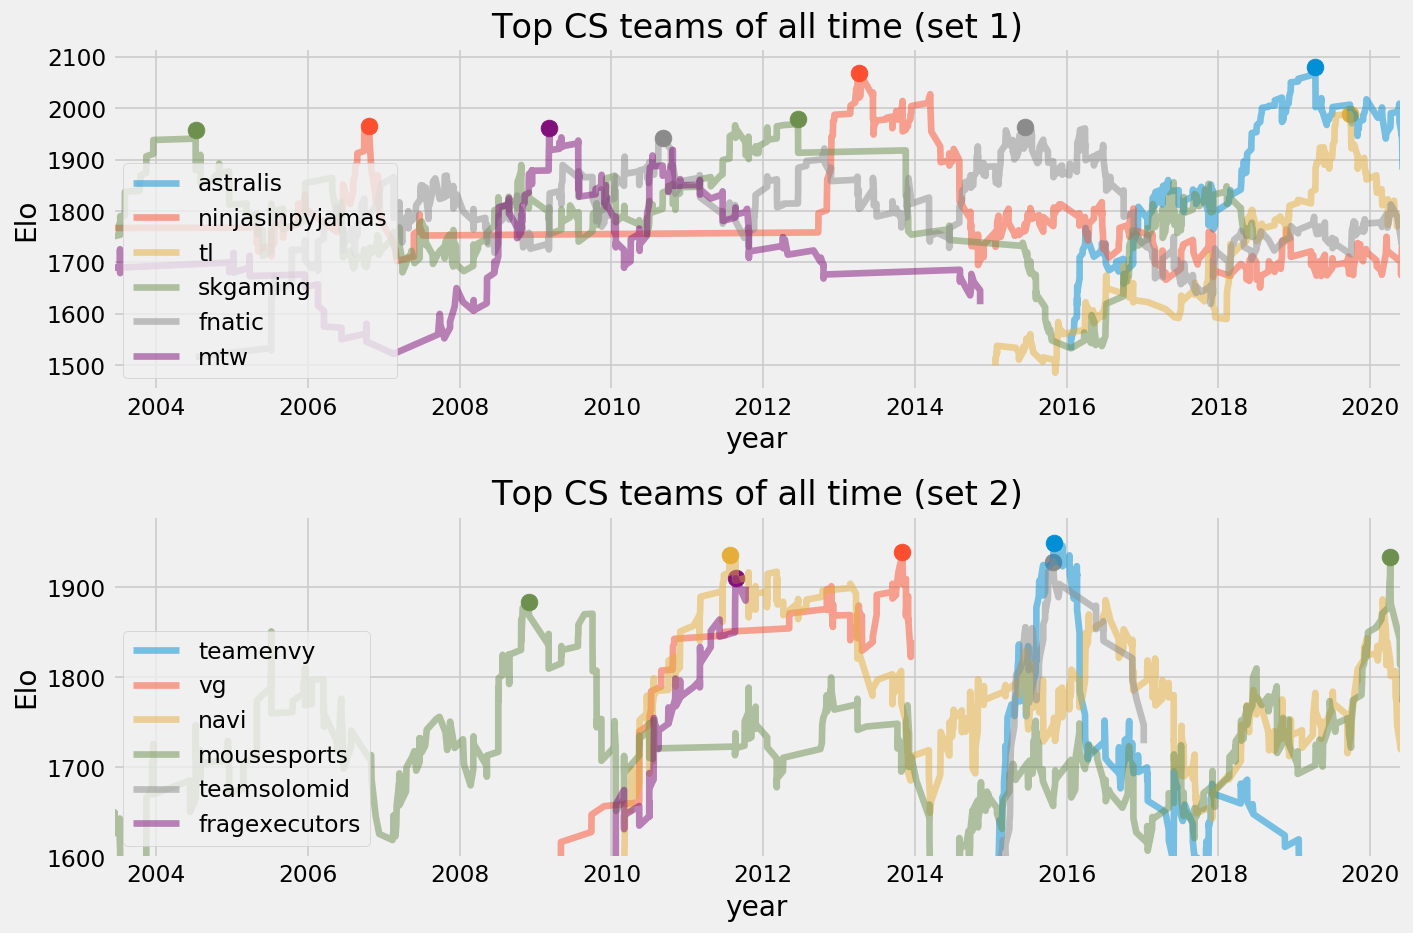
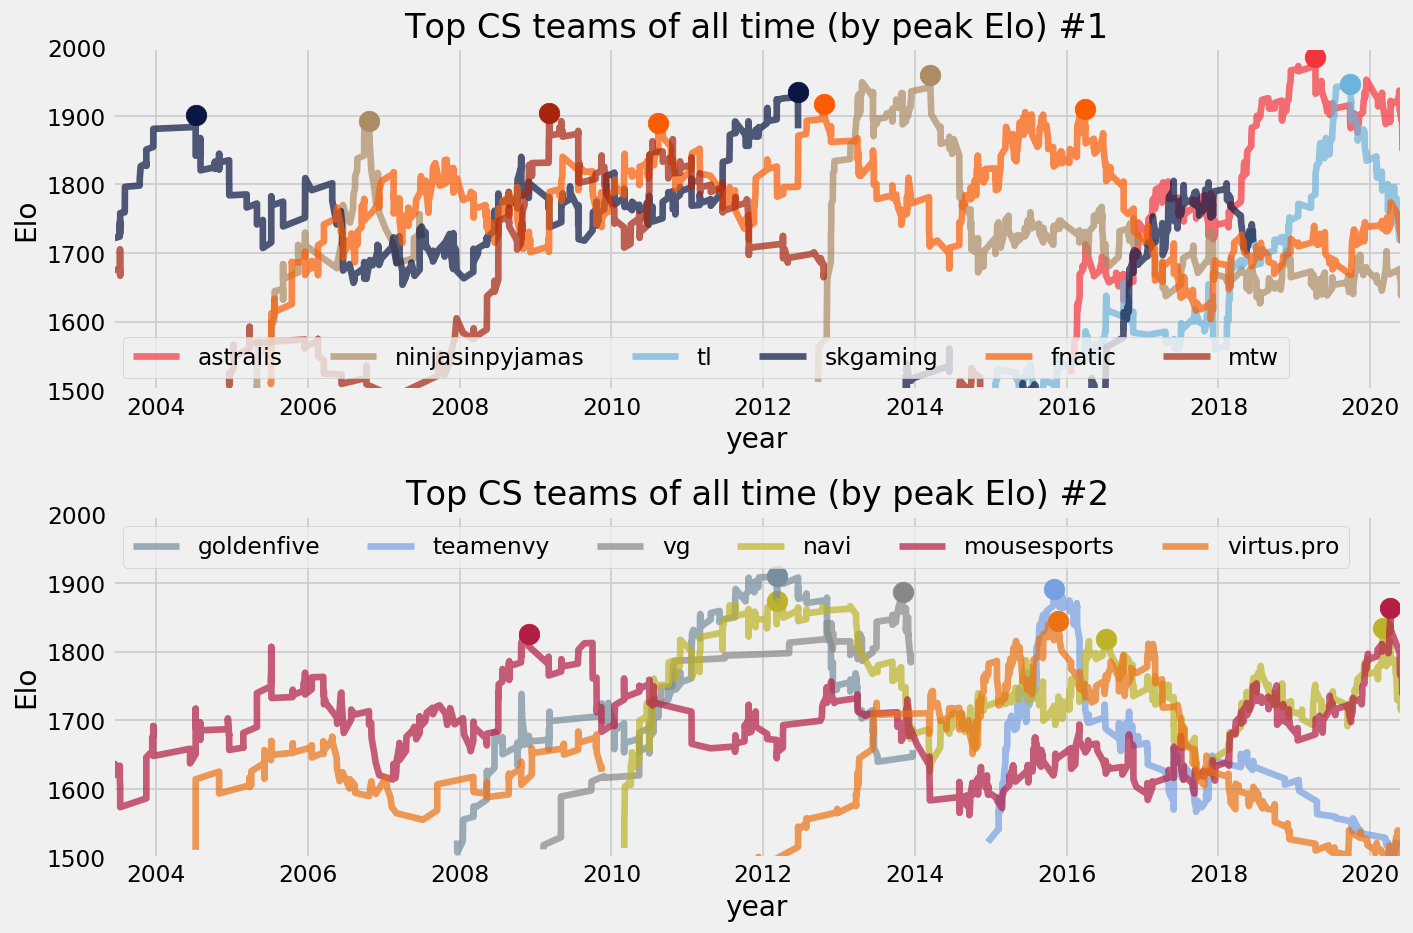
updated article on csgo with resets

diff --git a/_posts/2020-06-08-cso_elo.md b/_posts/2020-06-08-cso_elo.md
@@ -1,111 +1,142 @@
 ---
 layout: post
-title: The Best Counter-Strike Teams of All-Time
+title: The Greatest Counter-Strike Teams of All-Time
 ---
-In an era of shelter-in-place, we've seen the temporary shutdown of many sports leagues. The biggest sporting news seemed to revolve around [discussions of greatness](https://en.wikipedia.org/wiki/The_Last_Dance_(TV_series)). The shelter-in-place led me to check in on eSports, specifically Counter-Strike, and ask **who was the great Counter-Strike team of all-time?**. 
+In an era of shelter-in-place, we've seen the temporary shutdown of many sports leagues. The biggest sporting news of the day seems to revolve around [discussions of greatness](https://en.wikipedia.org/wiki/The_Last_Dance_(TV_series)). These events led me to e-Sports, specifically Counter-Strike, and interest in answering **who were the greatest Counter-Strike teams of all-time?**
 
 
-Counter-Strike seems [more popular than ever](https://steamcharts.com/app/730), with over a million concurrent players and [large prize pools](https://esportsobserver.com/biggest-esports-2019-prize-pool). The scene has its own [news](https://hltv.org) and betting odds are available from [major betting providers](https://www.pinnacle.com/en/esports/matchups/highlights). It has all the things a traditional sports fan might want, even though the traditional sports and eSports communities seem completely disperate. 
+Counter-Strike seems [more popular than ever](https://steamcharts.com/app/730), with over a million concurrent players and [large prize pools](https://esportsobserver.com/biggest-esports-2019-prize-pool). The scene has its own [news](https://hltv.org) and betting odds are available from [major betting providers](https://www.pinnacle.com/en/esports/matchups/highlights). It has all the things a traditional sports fan might want, even though the traditional sports and eSports communities seem completely disparate. 
 
 So I decided to take a leaf from Bill _"86' Celtics"_ Simmons' book and ask... Who are the ['11 Barcelona](https://en.wikipedia.org/wiki/2010%E2%80%9311_FC_Barcelona_season), the ['85 Oilers](https://en.wikipedia.org/wiki/1984%E2%80%9385_Edmonton_Oilers_season), the ['39 Yankees](https://en.wikipedia.org/wiki/1939_New_York_Yankees_season), the ['07 Patriots](https://en.wikipedia.org/wiki/2007_New_England_Patriots_season), the ['17 Warriors](https://en.wikipedia.org/wiki/2016%E2%80%9317_Golden_State_Warriors_season), and the ['02 UConn Huskies](https://en.wikipedia.org/wiki/2001%E2%80%9302_Connecticut_Huskies_women%27s_basketball_team) of Counter-Strike. If you don't agree with those as the GOATs, well, that's exactly why this is fun. 
 
-Such breakdowns exist for many sports, but I couldn't find a single list for Counter-Strike. There are annual lists of [player of the year](https://www.hltv.org/news/28749/top-20-players-of-2019-introduction), and regular updates for [current world rankings](https://www.hltv.org/ranking/teams/) but what about the best teams of all time? I guess I have to make my own. 
+Such breakdowns exist for many sports, but I couldn't find a single list for Counter-Strike. There are annual lists of [player of the year](https://www.hltv.org/news/28749/top-20-players-of-2019-introduction), and regular updates for [current world rankings](https://www.hltv.org/ranking/teams/) but what about the all time greats? [Top 50 Players in CS History](https://youtu.be/yTu1ODceGn4) (2014) has 9M+ YouTube views. But a list of the greatest teams? I guess I have to make my own. 
 
 We'll follow an approach that FiveThirtyEight took for [baseball](https://projects.fivethirtyeight.com/complete-history-of-mlb/), [basketball](https://projects.fivethirtyeight.com/complete-history-of-the-nba/), and [football](
 https://projects.fivethirtyeight.com/complete-history-of-the-nfl/). This consists of building an imperfect quantitative rating, and skip having to actually watch thousands of hours of gameplay to make a more refined decision. 
-
+<p align="center">
+  <img src="/images/csgo.png">
+</p>
+<p align="center">
+  <img src="/images/cs16.png">
+</p>
 
 ## How the ratings work
 We'll be building a basic [Elo rating system](https://en.wikipedia.org/wiki/Elo_rating_system). I've written about the [technical details before](https://nicidob.github.io/nba_elo/), so refer to those for more information. In layman's terms: everyone's rating is represented by a single number. When a team beats another, the winner takes points from the loser; the more unlikely the victory, the more points get exchanged. In absurdly technical jargon, Elo is an [online](https://en.wikipedia.org/wiki/Online_algorithm) approximation to [logistic regression](https://en.wikipedia.org/wiki/Logistic_regression) using [conservative](https://en.wikipedia.org/wiki/Conservation_law) [proportional control](https://en.wikipedia.org/wiki/Proportional_control); the conservation implies that the regression version of this task is solving for the [Rayleigh quotient](https://en.wikipedia.org/wiki/Rayleigh_quotient). There, glad I got that out of the way. 
 
-So how to do we get all the matches? We used an export of [Liquipedia](https://liquipedia.net/counterstrike/Main_Page), which has Counter-Strike games going back to 2000. Specifically, we're using all the A-Tier and S-Tier Tournaments. The dataset is incomplete & not uniformly sampled (more recent tournaments are better documented), but I was able to parse about 16,000 matches, which should be good enough to understand the landscape. 
+So how to do we get all the matches? We used an export of [Liquipedia](https://liquipedia.net/counterstrike/Main_Page), which has Counter-Strike games going back to 2000. Specifically, we're using all the A-Tier and S-Tier Tournaments. The dataset is incomplete & not uniformly sampled (more recent tournaments are better documented), but I was able to parse about 16,000 matches, which should be good enough to understand the landscape. All editions of Counter-Strike are combined and treated equally. 
 
-I setup a fairly general Elo algorithm with a half-dozen free parameters. Then I [optimized](https://en.wikipedia.org/wiki/Derivative-free_optimization) those parameters. Specifically, I was looking to maximize the [log-likelihood](https://en.wikipedia.org/wiki/Scoring_rule#Logarithmic_scoring_rule) of my matches. Remember how I said Elo produced a probability? Well I tuned the parameters so that it produced the most accurate predictions. In what cases? Well the scoring function was \\( \sum_i T_i \log(p_i)  (r_A + r_B) \\) where \\(p_i\\) is the predicted probability of the true winner, \\(T_i\\) was a multiplier that assigned 3x multiplier for LAN matches, and a 3x multiplier for S-Tier instead of A-Tier (9x if it was both S-Tier & LAN). \\(r_A\\) and \\(r_B\\) are the ratings of the teams, to focus on correctly predicting matchups between top teams. 
+I setup a fairly general Elo algorithm with a half-dozen free parameters. Then I [optimized](https://en.wikipedia.org/wiki/Derivative-free_optimization) those parameters. Specifically, I  maximized the [log-likelihood](https://en.wikipedia.org/wiki/Scoring_rule#Logarithmic_scoring_rule) of future match predictions. In what cases? The scoring function was \\( \sum_i T_i \log(p_i)  (r_A + r_B) \\) where \\(p_i\\) is the predicted probability of the true winner, \\(T_i\\) was a multiplier that assigned 3x multiplier for LAN matches, and a 3x multiplier for S-Tier instead of A-Tier (9x if it was both S-Tier & LAN). \\(r_A\\) and \\(r_B\\) are the ratings of the teams, to focus on correctly predicting matchups between top teams. 
 
-The resulting Elo coefficients were \\(K_{\text{Off},S} = 13\\) \\(K_{\text{On},S} = 28\\) \\(K_{\text{On},A} = 9\\), \\(K_{\text{Off},A} = 5\\). These coefficients are multiplied by the squared probability of the winner losing (so upsets cause more points swapped). Compared to normal Elo (which doesn't square the probabilities), this results in larger swaps for bigger upsets. That's it! If a team had a 50% chance of winning a match on S-Tier LAN and did, they'd take 3 points from the loser. In comparison, USCF Chess would swap 5 points. 
+Some examples of the final settings: if teams had a 50% chance of winning an S-Tier LAN and won 2-1, they would swap 8 points, 80%/20% winners would see 2 points (if 80% winner won) or 20 points (if 20% winner won). If the the win was 2-1, it'd be 6, 1 and 17 points in the previous 3 examples. Online A-Tier events ignore margin of victory, and all A-Tier events tend to be worth less points. The formula is \\( p_{l}^2  ( (w)^2 A_{\text{Tier},\text{LAN}} + B_{\text{Tier},\text{LAN}})\\) with \\( p_{l}\\) being the match loser's predicted winning probability, \\( w\\) being the % of maps won, and \\( A\\) \\( B\\) being constants with different values for each the four combinations of On/Offline and S/A-Tier. All of these values (including squaring the probability) came from optimizing the objective function above. 
 
-## The Best Counter-Strike Teams Ever (by Elo peak)
-Without further ado, here's the top 23 teams, covering the top 50 seasons.
+## The highest Elo peaks by Counter-Strike Teams
+Without further ado, here's the top 20 teams by peak Elo
 
-| Team           | Year | Elo  | Members                                   |
-|----------------|------|------|-------------------------------------------|
-| Astralis       | 2019 | 2080 | device dupreeh Xyp9x gla1ve Magisk        |
-| NiP            | 2013 | 2070 | Xizt GeT_RiGhT Fifflaren friberg f0rest   |
-| Team Liquid    | 2019 | 1990 | nitr0 EliGE Twistzz NAF Stewie2K          |
-| SK Gaming      | 2012 | 1980 | GeT_RiGhT f0rest Delpan face RobbaN       |
-| NiP            | 2006 | 1965 | SpawN RobbaN walle ins zet                |
-| fnatic         | 2015 | 1963 | flusha JW pronax olofmeister KRIMZ        |
-| mTw            | 2009 | 1961 | ave mJe zonic Sunde whimp                 |
-| SK Gaming      | 2004 | 1958 | HeatoN Potti fisker SpawN ahl             |
-| Team Envy      | 2015 | 1949 | Happy NBK kioShiMa kennyS apEX            |
-| fnatic         | 2010 | 1942 | Gux cArn dsn f0rest Get_RiGhT             |
-| VeryGames      | 2013 | 1940 | SmithZz NBK  ScreaM shox  Ex6TenZ         |
-| Natus Vincere  | 2011 | 1935 | starix esenin Zeus markeloff Edward       |
-| mouz           | 2020 | 1934 | chrisJ ropz karrigan woxic frozen         |
-| SoloMid        | 2015 | 1929 | cajunb device Xyp9x karrigan dupreeh      |
-| Frag eXecutors | 2011 | 1910 | TaZ kuben Loord pasha NEO                 |
-| FaZe           | 2018 | 1898 | rain karrigan NiKo GuardiaN olofmeister   |
-| Virtus.pro     | 2015 | 1897 | TaZ NEO pasha Snax byali                  |
-| SK Gaming      | 2008 | 1890 | allen Tentpole walle RobbaN zet           |
-| Natus Vincere  | 2020 | 1887 | flamie s1mple electronic Boombl4 Perfecto |
-| Natus Vincere  | 2016 | 1886 | Edward seized flamie GuardiaN Zeus        |
-| mouz           | 2008 | 1884 | cyx Kapio Tixo gobb gore                 |
-| LDLC           | 2014 | 1882 | NBK SmithZz kioShiMa shox Happy           |
+| Team           | Date        | Elo  | Members                                   |
+|----------------|-------------|------|-------------------------------------------|
+| Astralis       | 2019-04-12 | 1986 | device dupreeh Xyp9x gla1ve Magisk        |
+| NiP            | 2014-03-15 | 1960 | Xizt GeT_RiGhT Fifflaren friberg f0rest   |
+| Team Liquid    | 2019-09-26 | 1947 | nitr0 EliGE Twistzz NAF Stewie2K          |
+| SK Gaming      | 2012-06-12 | 1935 | GeT_RiGhT f0rest Delpan face RobbaN       |
+| fnatic         | 2012-10-21 | 1918 | trace Friis karrigan FYRR73 MODDII       |
+| | | | |
+| Golden Five    | 2011-03-06 | 1911 | TaZ kuben Loord pasha NEO                 |
+| fnatic         | 2016-03-29 | 1910 | flusha JW pronax olofmeister KRIMZ        |
+| mTw            | 2009-03-07 | 1905 | ave mJe zonic Sunde whimp                 |
+| SK Gaming      | 2004-07-09 | 1902 | HeatoN Potti fisker SpawN ahl             |
+| NiP            | 2006-10-21 | 1893 | SpawN RobbaN walle ins zet                |
+| | | | |
+| Team Envy      | 2015-11-01 | 1892 | Happy NBK kioShiMa kennyS apEX            |
+| fnatic         | 2010-08-14 | 1890 | Gux cArn dsn f0rest Get_RiGhT             |
+| VeryGames      | 2013-11-02 | 1887 | SmithZz NBK  ScreaM shox  Ex6TenZ         |
+| Natus Vincere  | 2012-03-09 | 1874 | starix esenin Zeus markeloff Edward       |
+| mouz           | 2020-04-07 | 1864 | chrisJ ropz karrigan woxic frozen         |
+| | | | |
+| Virtus.pro     | 2015-11-18 | 1845 | TaZ NEO pasha Snax byali                  |
+| SoloMid        | 2015-10-29 | 1843 | cajunb device Xyp9x karrigan dupreeh      |
+| SK Gaming      | 2008-10-23 | 1840 | allen Tentpole walle RobbaN zet           |
+| Natus Vincere  | 2020-03-01 | 1835 | flamie s1mple electronic Boombl4 Perfecto |
+| FaZe           | 2018-02-23 | 1834 | rain karrigan NiKo GuardiaN olofmeister   |
 
-Astralis and NiP tower above everyone else. One can probably make a decent argument for either being the greatest Counter-Strike team of all time. In general, Scandinavian teams dominate the top 20, and only one American roster has cracked the list. 
+I merge teams with similar rosters in adjacent years, so 2018 Astralis (1967) isn't 2nd on the list but grouped with 2019 Astralis. Likewise 2013 NiP (1949) is grouped with their 2014 year. Otherwise, the top four slots would be held by those two teams. In general, Scandinavian teams dominate the top 20, and only one American roster made the list. 
 
-Some of these peaks last several years (the top 7 seasons are Astralis 19, NiP 13, Astralis 18, NiP 14, Astralis 20, TL '19, NiP '12). Some of these teams have high roster overlap (VG13, LDLC14, Envy15). Sometimes cores span multiple teams, as GeT_RiGhT and f0rest dominates from 2009 (elo of 1890) to 2014 (elo of 2027) being on fnatic, SK and NiP. SoloMid in 2015 looks a lot like Astralis in 2019. On the other hand, NAVI climbs to the top several times with only a few shared members.   
+Some of these peaks last several years. Some have high roster overlap, as SoloMid in 2015 looks a lot like Astralis in 2019. Sometimes cores span multiple teams, as GeT_RiGhT and f0rest dominate from 2009 to 2014 being on fnatic, SK and NiP. karrigan shows up four times. NAVI and fnatic climb to the top several times with different rosters. 
 
-I particularly loved the [Golden Five](https://liquipedia.net/counterstrike/Golden_Five) instance of Frag eXecutors, who form on Feb 2010 and last only 20 months. In that short span, they place top 4 in 6 S-Tier events and 6 A-Tier events, ending with 1st place finish in WEG 2011 (2:1 over SK, a top 5 team of all time) in August and a 1st place in SEC 2011 (2:0 over NAVI, a top 15 team of all time) in October. They disband (becoming AGAiN) later that month. 
+I particularly loved the [Golden Five](https://liquipedia.net/counterstrike/Golden_Five). I grouped them across several clan tags (AGAiN, ESC, MYM), but climb fast particularly as Frag eXecutors, formed on Feb 2010 and lasting only 20 months. In that short span, they place top 4 in 6 S-Tier events and 6 A-Tier events, ending with 1st place in WEG 2011 (2:1 over SK) in August and 1st place in SEC 2011 (2:0 over NAVI) in October. A few months later (as ESC), they win WCG (over SK) and then IEM IV (over NAVI). Those SK and NAVI rosters both made the list above.
 <!-- <p align="center">
   <img src="/images/fragexec.png">
 </p> -->
 
-Each of these teams deserves at least a few words, some analysis, and maybe even a highlight real. Sadly, I don't have the time right now (but would love to collaborate, contact me!). But I will make some hasty graphs
+Each of these teams deserves at least a few words, some analysis, and maybe even a highlight real. Sadly, I don't have the time right now (but can collaborate, contact me!). But I will make some hasty graphs
 <p align="center">
   <img src="/images/top_12.png">
 </p>
 
-These teams peak, by definition, in tournaments that they lost. A peak Elo is when that team was the biggest favorite. Being the peak, it must have been downhill from there. 
+These teams peak, by definition, in tournaments that they lost. A peak Elo is when that team was the biggest favorite. Being the peak, losses must surely have followed.
 
 ## Top Teams in June 2020
-At the time of writing, the top 12 teams are
+At the time of writing, the top 12 teams by Elo are
 
 | Team     | Elo  |   | Team      | Elo  |
 |----------|------|---|-----------|------|
-| FaZe     | 1888 |   | fnatic    | 1776 |
-| Astralis | 1880 |   | EG        | 1757 |
-| Vitality | 1814 |   | NAVI      | 1746 |
-| G2       | 1801 |   | MAD Lions | 1742 |
-| mouz     | 1799 |   | NiP       | 1731 |
-| Liquid   | 1780 |   | FURIA     | 1692 |
+| Astralis | 1849 |   | NAVI      | 1734 |
+| FaZe     | 1806 |   | Liquid    | 1728 |
+| Vitality | 1761 |   | MAD Lions | 1694 |
+| G2       | 1756 |   | NiP       | 1681 |
+| mouz     | 1756 |   | FURIA     | 1681 |
+| fnatic   | 1744 |   | EG        | 1627 |
 
-11 of the 12 match the [current HLTV Rankings](https://www.hltv.org/ranking/teams/2020/june/1), which is a minor success. 
+11 of the 12 match the [current HLTV Rankings](https://www.hltv.org/ranking/teams/2020/june/1), which is a minor success.
 
 ## The 5 Best Counter-Strike Teams of Every Year
 
-To find a few more gems, I'll the top 5 teams in every year (based on their peak Elo). 
-* **2000**	clanz (1592), eyeballers (1581), soa (1570), domainofpain (1565), mtw (1559) 
-* **2001**	nip (1766), soa (1673), sk (1669), mtw (1651), legendsneverdie (1636)
-* **2002**	mtw (1721), mouz (1657), eolithic (1652), sk (1647), team3d (1630) 
-* **2003**	sk (1937), team9 (1816), mtw (1725), mouz (1725), team3d (1703) 
-* **2004**	sk (1958), eyeballers (1781), thetitans (1774), mouz (1746), mibr (1732)
-* **2005**	sk (1854), mouz (1850), nip (1831), complexity (1783), eyeballers (1776)
-* **2006**	nip (1965), sk (1864), fnatic (1852), mouz (1797), complexity (1793)
-* **2007**	fnatic (1868), complexity (1824), pentagram (1823), noa (1795) nip (1792)
-* **2008**	sk (1889), mouz (1884), mtw (1878), fnatic (1829), mibr (1824)
-* **2009**	mtw (1961), fnatic (1889), mouz (1870), sk (1863), meetyourmakers (1809)
-* **2010**	fnatic (1941), mtw (1918), sk (1868), navi (1851), vg (1842)
-* **2011**	sk (1966), navi (1935), fragexecutors (1909), fnatic (1869), mtw (1859) 
-* **2012**	nip (1987), sk (1979), fnatic (1921), navi (1917), vg (1901) 
-* **2013**	nip (2068), vg (1939), sk (1917), navi (1904), fnatic (1866) 
-* **2014**	nip (2027), fnatic (1925), ldlc (1882), virtus.pro (1851), dignitas (1824)
-* **2015**	fnatic (1963), envy (1948), solomid (1928), virtus.pro (1897), ldlc (1869)
-* **2016**	fnatic (1960), envy (1935), navi (1885), solomid (1879), ldlc (1872) 
-* **2017**	faze (1877), virtus.pro (1860), astralis (1860), sk (1855), navi (1820)
-* **2018**	astralis (2050), faze (1898), sk (1847), tl (1810), mouz (1810)
-* **2019**	astralis (2079), tl (1988), mouz (1850), navi (1843), faze (1821)
+To find a few more gems, I'll list the top 5 teams in every year. These use a [quadratic mean](https://en.wikipedia.org/wiki/HM-GM-AM-QM_inequalities) of the team's Elo score across all of their Elo updates that year. The choice of quadratic mean should bias these towards their larger results.
 
-This is a more expansive list in some ways. We see Norwegian teams (eolithic, team9), North American teams (Team3D, complexity), a South American team (MIBR) and a Russian team (virtus.pro). These teams even have multiple top-5 appearances and so they probably qualify for some consideration as _"the best Counter-Strike teams ever"_.
+* **2000**	clanz (1540), dop (1539), eyeballers (1528), soa (1527), syndicate (1526)
+* **2001**	nip (1634), soa (1605), sk (1586), mtw (1583), clanz (1580)
+* **2002**	mtw (1650), soa (1607), sk (1600), eolithic (1585), dop (1579)
+* **2003**	sk (1759), team9 (1708), mtw (1683), mouz (1640), soa (1637)
+* **2004**	sk (1846), mouz (1680), thetitans (1680), mibr (1650), eyeballers (1647)
+* **2005**	sk (1757), mouz (1740), eyeballers (1704), noa (1677), 4kings (1666)
+* **2006**	nip (1795), fnatic (1735), complexity (1720), mouz (1717), sk (1702)
+* **2007**	fnatic (1788), pentagram (1741), complexity (1738), nip (1724), noa (1713)
+* **2008**	sk (1770), mouz (1754), fnatic (1753), complexity (1746), mtw (1718)
+* **2009**	mtw (1837), fnatic (1773), mouz (1769), sk (1765), mibr (1734)
+* **2010**	fnatic (1830), mtw (1793), sk (1772), mouz (1733), vg (1713)
+* **2011**	goldenfive (1866), sk (1842), navi (1830), vg (1792), fnatic (1786)
+* **2012**	sk (1913), navi (1855), goldenfive (1853), fnatic (1853), vg (1820)
+* **2013**	nip (1903), vg (1827), fnatic (1798), navi (1758), tyloo (1735)
+* **2014**	nip (1803), fnatic (1774), teamldlc (1711), virtus.pro (1710), navi (1695)
+* **2015**	fnatic (1854), teamldlc (1822), virtus.pro (1788), navi (1738), envy (1731)
+* **2016**	fnatic (1845), navi (1769), solomid (1766), virtus.pro (1755), envy (1739)
+* **2017**	astralis (1764), sk (1758), faze (1727), virtus.pro (1706), navi (1698)
+* **2018**	astralis (1875), faze (1797), sk (1745), navi (1726), mouz (1709)
+* **2019**	astralis (1924), tl (1861), navi (1734), faze (1730), mouz (1727)
+* **2020**	astralis (1905), mouz (1803), tl (1783), faze (1783), navi (1780)
+
+Here we see Norwegian teams (eolithic, team9), North American teams (dop, complexity), a South American team (mibr), a Chinese team (TYLOO) and a Russian team (virtus.pro). These teams even have multiple top-5 appearances and so they probably qualify for some consideration as _"the best Counter-Strike teams ever"_. The sustained success of complexity (top5 from 2006 to 2008) deserves some note. Team3D just missed the cutoff, being 6th in '03, '04 and '06. Mousesports makes the top 5 nearly every year from 2004 to 2010. Other teams had high peaks but didn't sustain their success (envy gets a 9th all-time nod but their best annual finish is 4th). Astralis from '17 to '19 and SK from '03 to '05 both manage three years in the top slot (fnatic got close, multiple times). 
 
 To gain points in Elo, it requires directly beating good teams on a regular basis. If the European scene has more players, more teams and more competitions, then their best teams would obtain higher Elo scores than the best North American teams playing the same number of games. Using something like [logistic regression](https://nicidob.github.io/nba_elo/) over batches of games may provided a better rating system than Elo, as it wouldn't suffer from this failure. HLTV's system of [assigning points to winners of tournaments](https://www.hltv.org/news/16061/introducing-csgo-team-ranking) also avoids this problem. 
+
+## Conclusion
+I'd probably rank the greatest Counter-Strike teams of all time as
+1. 2019 Astralis
+2. 2013 Ninjas in Pyjamas
+3. 2004 SK Gaming
+4. 2015 fnatic 
+5. 2019 Team Liquid
+6. 2011 Golden Five 
+
+**2019 Astralis** has the highest peak Elo (1986) and the highest annual QM Elo (1925). Add long term success in a crowded field and they're a shoe-in for the number 1 position. 
+
+**2013 NiP** is the runner up, as the only other team team to break 1900 aQM and 1950 peak Elo (SK 12 isn't a full season). The core of f0rest and GeT_RiGhT are on the number 1 team during 2010 (fnatic), 2011-12 (sk) and 2013 (nip), while crossing between Counter-Strike 1.6 and Global Offensive. 
+
+For the third slot, the dominance of **2004 SK** is hard to understate. No one else is at their level and this metric likely understates their dominance. They have three years in number one position and in 2004 they have an unrivaled 150+ point lead on 2nd place.
+
+For fourth slot there are two clear candidates: **2019 Team Liquid** and **2015 fnatic**. They've the 4th/6th highest aQM and 3rd/6th highest peak Elo. Both had great peaks but fnatic proved themselves for longer, putting together two great back-to-back seasons.
+
+The last slot comes down to three teams playing at the same time: late 2011 to early 2012 SK Gaming, NAVI and the Golden Five. They're in the top for aQM (2nd, 6th and 3rd) and peak Elo (4th, 14th and 6th).  The **2011 Golden Five (as Frag eXecutors & ESC)** have back-to-back, head-to-head finals wins over the NAVI & SK rosters. Twice! They win WEG+WCG over SK and SEC+IEM over NAVI, so they got the last slot.  
+
+The rest of the top 10 seems harder to fill out but good candidates include several CS1.6 teams (2006 NiP, 2009 mTw, 2008 mouz) and CSGO teams (2015 VP, 2018 FaZe). 
+
+ If you thought this was fun and have your own top 10 list, please make it and share!
